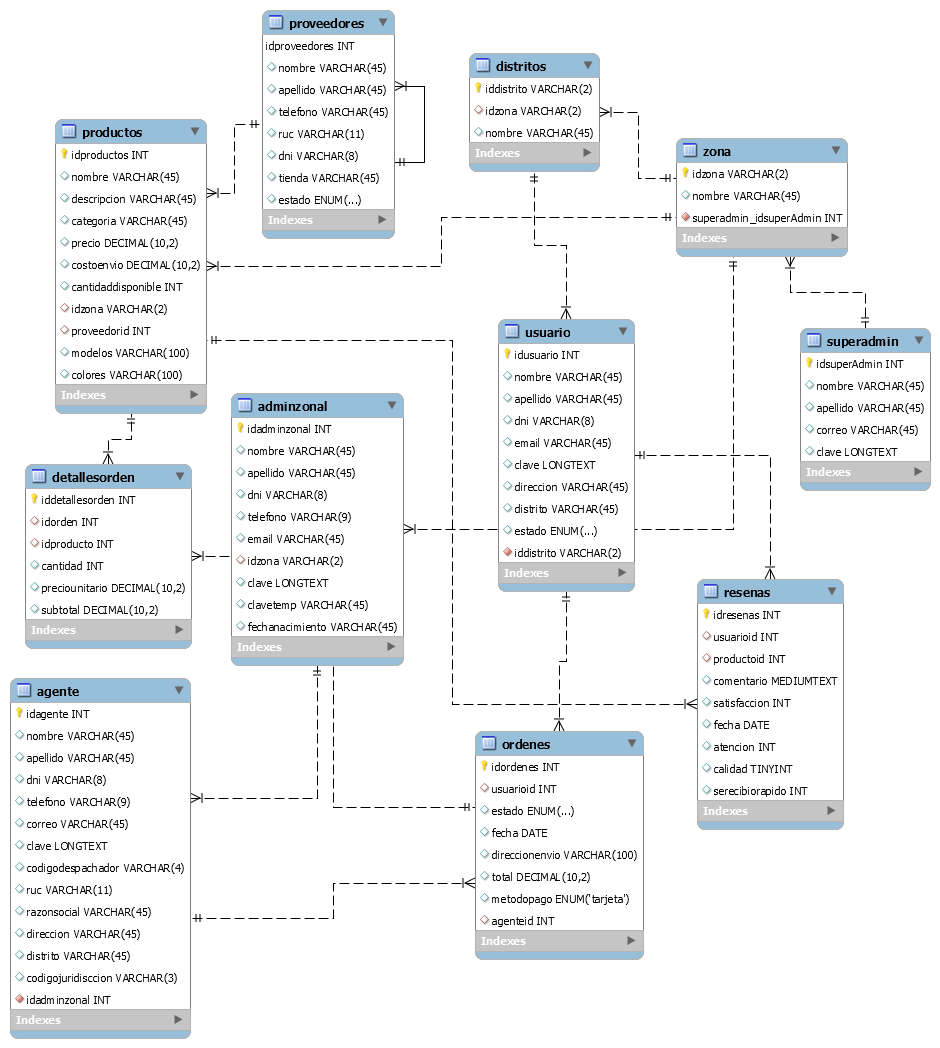
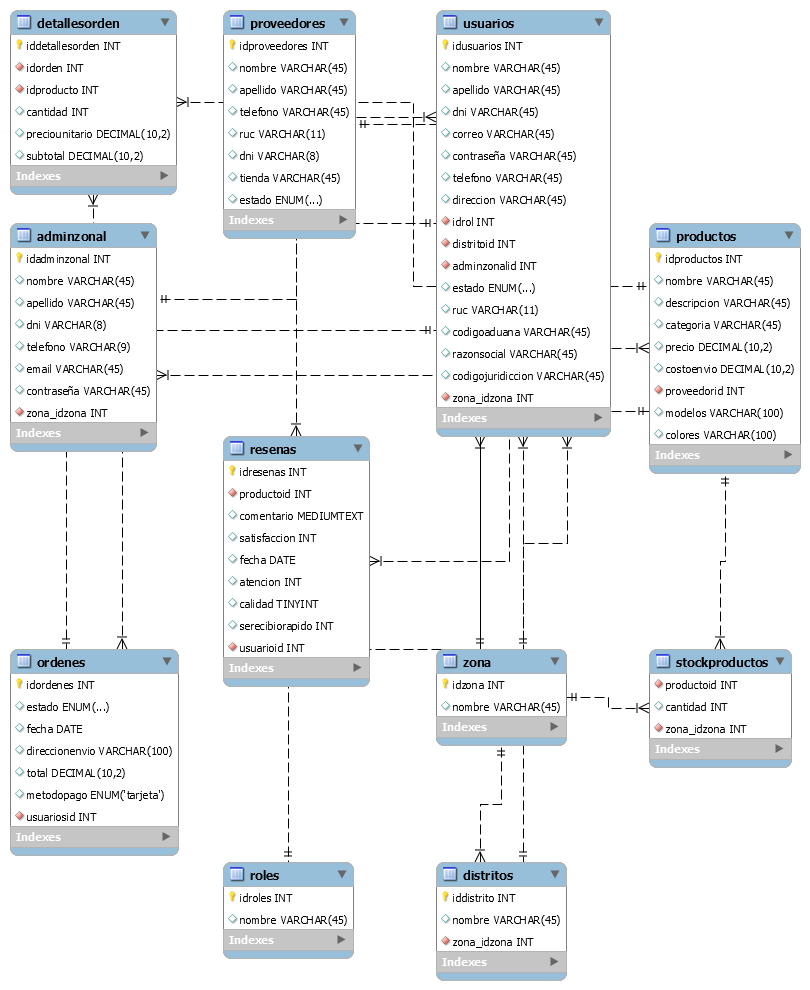
bd, entities (beans)

diff --git a/DOGLESS-CRUD/src/main/java/com/example/holamundo/entity2/usuario.java b/DOGLESS-CRUD/src/main/java/com/example/holamundo/entity2/usuario.java
@@ -1,0 +1,29 @@
+package com.example.holamundo.entity2;
+
+import jakarta.persistence.Entity;
+import jakarta.persistence.GeneratedValue;
+import jakarta.persistence.GenerationType;
+import jakarta.persistence.Id;
+
+@Entity
+public class usuario {
+
+    @Id
+    @GeneratedValue(strategy = GenerationType.IDENTITY)
+    private Integer idusuarios;
+    private String nombre;
+    private String apellido;
+    private String correo;
+    private String dni;
+    private String telefono;
+    private String direccion;
+    private Integer idroles;
+    private Integer iddistritos;
+    private Integer idadminzonales;
+    private String estado;
+    private String ruc;
+    private String codigoaduana;
+    private String razonsocial;
+    private String codigojurisdiccion;
+    private Integer idzonas;
+}
